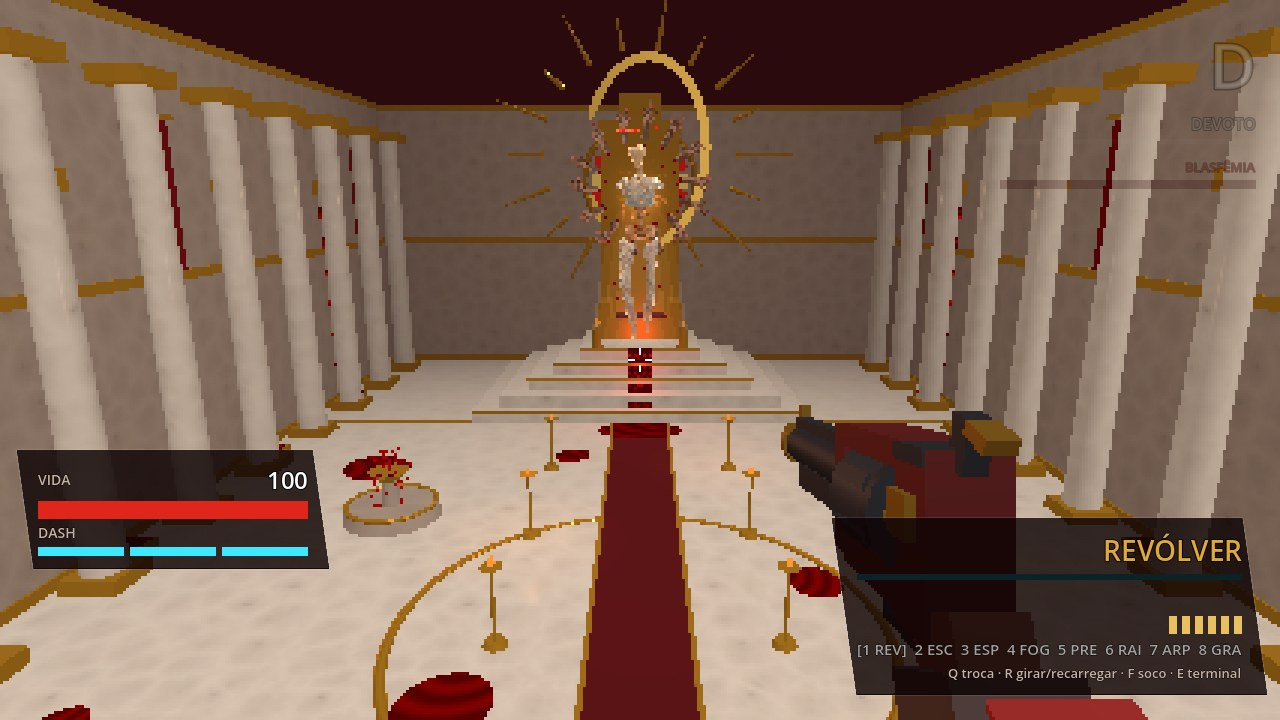
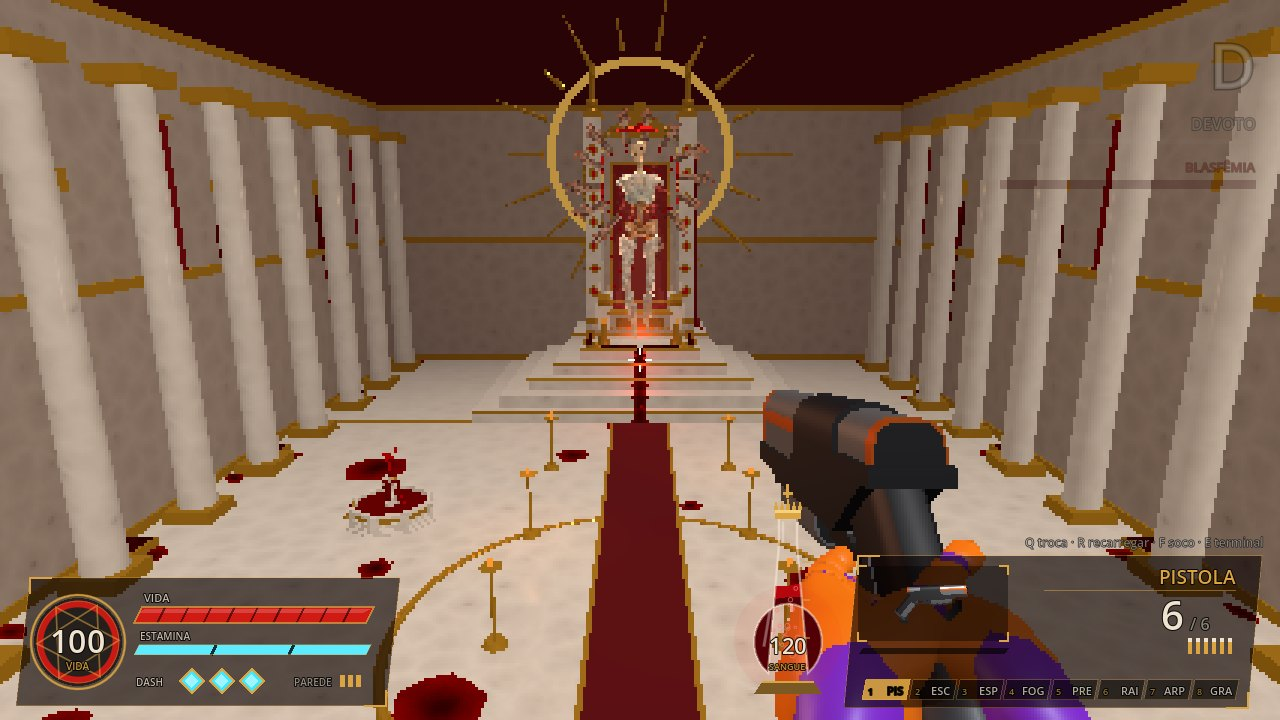
README e docs: Miguel e sua arena, Sala do Trono, sangue como munição, jab; novas imagens
Claude-Session: https://claude.ai/code/session_01XQta9wH9Q7MkitcZydzUWR

diff --git a/README.md b/README.md
@@ -18,17 +18,45 @@
 
 *Deicide* é um jogo de tiro em primeira pessoa rápido e violento, feito inteiro em **Godot 4.7** com GDScript.
 Você corre, desliza, dá dash, pula nas paredes, gira as armas e devolve projéteis no soco enquanto enfrenta
-ondas de servas aladas, o arcanjo **Gabriel** e, por fim, o próprio **Deus**.
+ondas de servas aladas, os arcanjos **Gabriel** e **Miguel** e, por fim, o próprio **Deus** no seu trono de mármore, ouro e sangue.
 
-O sangue dos inimigos cura você — quanto mais perto e mais agressivo, mais você sobrevive.
+**Sangue é munição.** Todas as armas de fogo bebem de um único frasco de sangue; cada inimigo que estoura é
+arremessado longe, espirra sangue na tela e solta gotas que voam até você para encher o frasco.
+Ficar sem sangue obriga a partir para o soco — que também cura e devolve projéteis.
 Um ranking de heresia (de Devoto a Supremo Sacrilégio) recompensa variar as armas, acertar na cabeça e aparar ataques, e enche a barra de **Blasfêmia**: cheia, ela para o tempo e executa com raios todos os anjos na tela.
+
+### Os chefes
 
 | | |
 |---|---|
+| ![Miguel](docs/img/miguel_perto.jpg) | ![Miguel no eclipse](docs/img/miguel_eclipse.jpg) |
+| **Miguel**, o Arcanjo Velado: quatro braços, asas cheias de olhos | Abaixo de 50% de vida vem o **Eclipse** e o céu sangra |
+| ![Miguel, olhar das asas](docs/img/miguel_olhos.jpg) | ![Miguel, cruz de sangue](docs/img/miguel_cruz.jpg) |
+| **Olhar das Asas**: rajadas dos seis olhos (dá para devolver no soco) | **Cruz de Sangue**: gêiseres em cruz sob seus pés |
+| ![Deus no trono](docs/img/deus_trono.jpg) | ![Cutscene de Deus](docs/img/cutscene_deus.jpg) |
+| **Deus** espera no alto do altar da Sala do Trono | A cutscene de entrada, com a voz de Deus em língua estranha |
 | ![Gabriel](docs/img/gabriel.jpg) | ![Deus, segunda fase](docs/img/deus_fase2.jpg) |
 | **Gabriel**, o Arauto de Muitos Olhos | **Deus** na segunda fase: a arena inundada de sangue |
-| ![Ceifadora](docs/img/ceifadora.jpg) | ![Revólver](docs/img/revolver.jpg) |
-| A **Ceifadora**, com esqueleto animado por código | A arma principal: gira, ricocheteia e recarrega |
+
+### As arenas
+
+| | |
+|---|---|
+| ![Arena de Miguel](docs/img/miguel.jpg) | ![Sala do Trono](docs/img/sala_do_trono.jpg) |
+| **Santuário do Eclipse** — ruínas flutuando no vazio, selo de sangue no chão e um sol negro | **Sala do Trono** — mármore branco, ouro, cachoeiras e um córrego de sangue |
+| ![Fontes de sangue](docs/img/fontes_de_sangue.jpg) | ![Barras dos chefes](docs/img/barras_chefes.jpg) |
+| As fontes de sangue da Sala do Trono | Cada chefe tem a sua barra de vida (Gabriel, Miguel, Deus) |
+
+### Sangue, armas e soco
+
+| | |
+|---|---|
+| ![Sangue na tela](docs/img/sangue_na_tela.jpg) | ![Cadáver](docs/img/cadaver.jpg) |
+| Inimigo estourado: sangue na tela e o **frasco de sangue** (munição) na HUD | Os corpos são arremessados e ficam no mapa |
+| ![Jab](docs/img/jab.jpg) | ![Revólver](docs/img/revolver_recarga.jpg) |
+| O **jab**: o braço inteiro estica com o punho fechado | O revólver de dois canos e a recarga com as duas mãos |
+| ![Ceifadora](docs/img/ceifadora.jpg) | ![Menu](docs/img/menu.jpg) |
+| A **Ceifadora**, com esqueleto animado por código | O menu principal |
 
 ## Como jogar
 
@@ -48,6 +76,7 @@ Um ranking de heresia (de Devoto a Supremo Sacrilégio) recompensa variar as arm
 | **Ondas** | Hordas crescentes. A cada 5 ondas aparece Gabriel; a cada 10, Deus. |
 | **Treino** | Alvos infinitos para testar armas e melhorias. |
 | **Gabriel** | Luta direta contra o arcanjo (8 ataques, segunda fase). |
+| **Miguel** | Luta contra o Arcanjo Velado na arena dele, o Santuário do Eclipse (7 ataques + Eclipse). |
 | **Deus** | Luta direta contra Deus (10 ataques, segunda fase com a arena inundada). |
 
 ## Controles
@@ -61,8 +90,8 @@ Um ranking de heresia (de Devoto a Supremo Sacrilégio) recompensa variar as arm
 | Atirar | **Clique esquerdo** |
 | Especial da arma | **Clique direito** |
 | Trocar arma | **Q** (anterior) · **1–8** · **roda do mouse** |
-| Girar / recarregar | **R** |
-| Soco e rebater projéteis | **F** |
+| Girar / recarregar (gasta sangue) | **R** |
+| Soco (jab) e rebater projéteis | **F** |
 | Blasfêmia (com a barra cheia) | **G** |
 | Terminal de arsenal (perto dele) | **E** |
 | Pausar / configurações | **ESC** |
@@ -95,11 +124,27 @@ Deicide/
 │   ├── enemy.gd           # inimigos comuns
 │   ├── ceifadora.gd       # esqueleto e animação procedural da Ceifadora
 │   ├── gabriel.gd         # chefe Gabriel
-│   └── deus.gd            # chefe Deus
+│   ├── miguel.gd          # chefe Miguel (partes animadas por código, 7 ataques, Eclipse)
+│   ├── miguel_arena.gd    # Santuário do Eclipse, a arena do Miguel
+│   ├── deus.gd            # chefe Deus
+│   ├── trono.gd           # Sala do Trono e cutscene de Deus
+│   ├── hud2.gd            # HUD: vida, estamina, dash, arma em 3D, munição e frasco de sangue
+│   ├── boss_bar.gd        # barras de vida estilizadas de cada chefe
+│   ├── blood_screen.gd    # sangue espirrado na tela
+│   ├── gibs.gd            # mortes: cadáveres arremessados, manchas e gotas de sangue (munição)
+│   ├── fp_ik.gd           # braços em primeira pessoa: IK, punho fechado, giro da arma
+│   └── menu_ui.gd         # menu principal e de pausa
 ├── gabriel.glb            # modelo do Gabriel (asas em duas partes, auréolas, mãos)
 ├── gabriel_tex.jpg        # textura do Gabriel
 ├── ceifadora.glb          # modelo da Ceifadora com esqueleto de 24 ossos
 ├── deus/                  # modelo animado de Deus, mão decepada e texturas
+├── miguel/                # modelo e texturas do Arcanjo Miguel
+├── maos/                  # braços animados em primeira pessoa
+├── revolver/              # revólver de dois canos
+├── fonte/                 # fonte de sangue da Sala do Trono
+├── anjo/                  # estátua de anjo do corredor
+├── fontes_ui/             # fontes de texto (Cinzel, licença OFL)
+├── musica/                # trilhas sonoras
 ├── sfx/                   # efeitos sonoros e música (gerados por código)
 └── docs/                  # documentação e imagens
 ```

diff --git a/docs/INIMIGOS.md b/docs/INIMIGOS.md
@@ -46,6 +46,32 @@ Com 75%, 50% e 25% de vida chama reforços.
 
 ---
 
+## Miguel, o Arcanjo Velado
+
+![Miguel](img/miguel_perto.jpg)
+
+Modo **Miguel** no menu. Luta na arena dele, o **Santuário do Eclipse**: um piso de pedra negra flutuando no vazio,
+com um selo de sangue no chão, 18 colunas quebradas, arcos góticos partidos e um sol negro no céu.
+5 200 de vida, cerca de 14 metros de altura. Quatro braços com garras, asas cobertas de olhos e uma auréola de
+raios com um anel de luz parado atrás da cabeça. **A cabeça leva mais dano.** Ele anda atrás de você, não voa.
+
+| Ataque | Como desviar |
+|---|---|
+| **Ceifa dos Quatro Braços** — avança e ceifa duas vezes num arco largo | Pule |
+| **Olhar das Asas** — os seis olhos disparam rajadas de esferas | Rebata com **F** ou desvie |
+| **Cruz de Sangue** — gêiseres de sangue estouram em cruz em volta de você (fase 2: também em X) | Saia das linhas marcadas |
+| **Corrente de Penitência** — mira, trava e lança uma corrente; se pegar, puxa e esmaga | Dash quando a mira travar |
+| **Passo do Eclipse** — some em sangue e cai do alto atrás de você | Saia do círculo vermelho |
+| **Rosário de Sangue** — sobe girando e solta espirais de contas | Fique em movimento entre as espirais |
+| **Coroa de Espinhos** — um anel de espinhos nasce à sua volta e se fecha | Pule por cima |
+
+**Eclipse (abaixo de 50%):** o céu escurece e fica vermelho, o sol negro cresce, a auréola sangra
+e ele passa a atacar mais rápido e a emendar golpes. Morto, volta em 9 segundos para você treinar.
+
+| | |
+|---|---|
+| ![Olhar das Asas](img/miguel_olhos.jpg) | ![Eclipse](img/miguel_eclipse.jpg) |
+
 ## Deus
 
 ![A crista de mãos decepadas](img/deus_crista.jpg)

diff --git a/docs/JOGABILIDADE.md b/docs/JOGABILIDADE.md
@@ -53,3 +53,19 @@ O jogo fica pausado enquanto o terminal está aberto.
 
 No menu (ESC): sensibilidade do mouse, campo de visão, volume geral, volume da música e o **visual retrô
 pixelado**. Tudo é salvo em `user://save.cfg`.
+
+
+## Sangue é munição
+
+- Todas as armas de fogo gastam de um único **frasco de sangue** (máximo 200, começa com 120), mostrado na HUD
+  ao lado do painel da arma.
+- Recarregar o revólver custa 2 por bala e a escopeta 4 por cartucho; foguete 14, prego 0,7, raio 12, arpão 6, granada 8.
+  Espadas e soco são de graça.
+- Cada inimigo que estoura é **arremessado longe** (o corpo fica no mapa), espirra **sangue na tela** e solta gotas
+  que voam até você: casca 22, bruto 55, drone 12. Matar no soco rende 50% a mais.
+- Sem sangue a arma dá um clique seco e aparece **SEM SANGUE** — hora de usar o soco.
+
+## Soco (jab)
+
+**F** dá um jab: o braço sobe, estica com o punho fechado, recolhe para a guarda perto do rosto e desce.
+Socar de novo na guarda sai direto de lá. O soco rebate projéteis e mata para encher o frasco.
